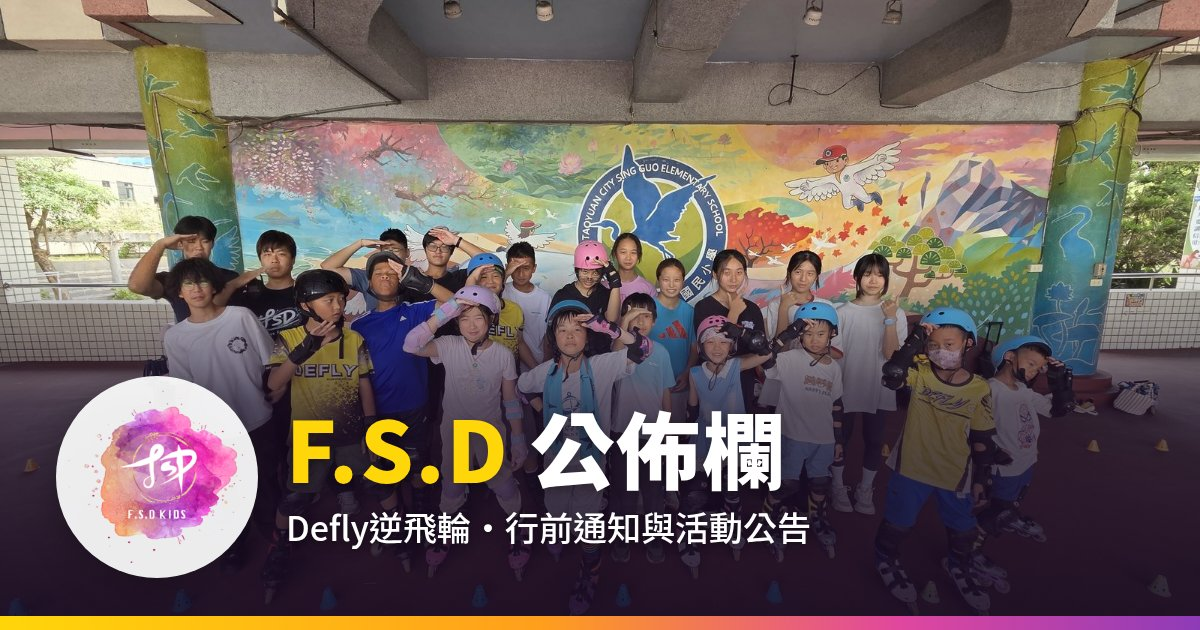
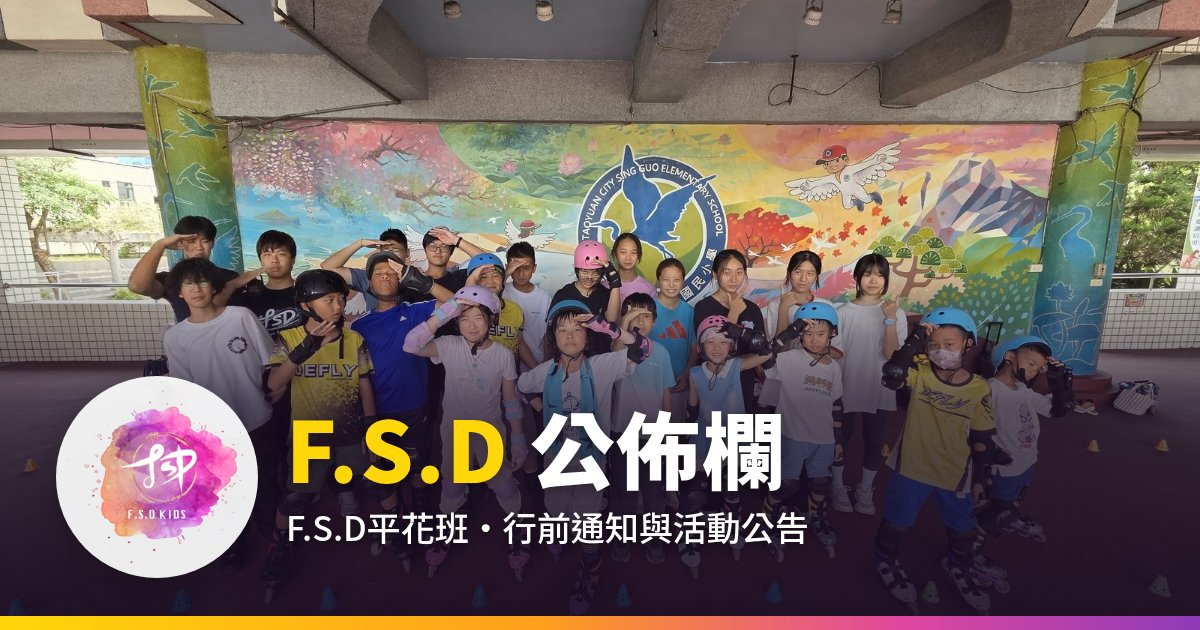
Update F.S.D 公佈欄

Changed region(s): [[0.2467, 0.8143, 0.6783, 0.8746]]

diff --git a/index.html b/index.html
@@ -4,12 +4,12 @@
 <meta charset="utf-8">
 <meta name="viewport" content="width=device-width, initial-scale=1, viewport-fit=cover">
 <title>F.S.D 公佈欄</title>
-<meta name="description" content="Defly逆飛輪 的行前通知與活動公告，最新消息都在這裡。">
+<meta name="description" content="F.S.D平花班 的行前通知與活動公告，最新消息都在這裡。">
 <meta name="theme-color" content="#FFD60A">
 <meta property="og:type" content="website">
 <meta property="og:site_name" content="F.S.D 公佈欄">
 <meta property="og:title" content="F.S.D 公佈欄">
-<meta property="og:description" content="Defly逆飛輪 的行前通知與活動公告，最新消息都在這裡。">
+<meta property="og:description" content="F.S.D平花班 的行前通知與活動公告，最新消息都在這裡。">
 <meta property="og:locale" content="zh_TW">
 <meta property="og:url" content="https://wayneking66.github.io/fsd-board/">
 <link rel="preconnect" href="https://fonts.googleapis.com">
@@ -27,12 +27,12 @@
 <main class="wrap">
   <header class="site-head">
     <img src="assets/logo-192.png" alt="F.S.D KIDS 標誌" width="96" height="96">
-    <div><span class="team">Defly逆飛輪</span><h1><b>F.S.D</b> 公佈欄</h1></div>
+    <div><span class="team">F.S.D平花班</span><h1><b>F.S.D</b> 公佈欄</h1></div>
   </header>
   <p class="tagline">行前通知・活動公告，最新消息都在這裡 🛼</p>
   <figure class="photo" style="margin-left:0;margin-right:0">
-    <img src="assets/team.jpg" alt="Defly逆飛輪 團體照" width="1600" height="901">
-    <figcaption><i></i>Defly逆飛輪</figcaption><span class="bar"></span>
+    <img src="assets/team.jpg" alt="F.S.D平花班 團體照" width="1600" height="901">
+    <figcaption><i></i>F.S.D平花班</figcaption><span class="bar"></span>
   </figure>
   <h2 class="sec-h">最新公告</h2>
   <nav class="filters" aria-label="分類篩選"><button type="button" data-f="" aria-pressed="true">全部</button><button type="button" data-f="比賽" aria-pressed="false">比賽</button></nav>
@@ -46,7 +46,7 @@
     </a>
   </div>
   <p class="empty" id="empty" hidden>這個分類目前沒有公告</p>
-  <footer>F.S.D 公佈欄・Defly逆飛輪</footer>
+  <footer>F.S.D 公佈欄・F.S.D平花班</footer>
 </main>
 <script>
 (function(){

diff --git a/notices/2026-11-01-zhongzheng-cup.html b/notices/2026-11-01-zhongzheng-cup.html
@@ -33,7 +33,7 @@
   <div class="hero">
     <span class="eyebrow">行前通知・比賽</span>
     <h1>115台北市中正盃</h1>
-    <p class="sub">Defly逆飛輪 參賽家長請詳閱 🛼</p>
+    <p class="sub">F.S.D平花班 參賽家長請詳閱 🛼</p>
     <div class="hero-meta">
       <span class="pill">📅 11/1（日）</span>
       <span class="pill">📍 台北市迎風溜冰場</span>

diff --git a/templates/notice-template.html b/templates/notice-template.html
@@ -33,7 +33,7 @@
   <div class="hero">
     <span class="eyebrow">行前通知・比賽</span>
     <h1>115台北市中正盃</h1>
-    <p class="sub">Defly逆飛輪 參賽家長請詳閱 🛼</p>
+    <p class="sub">F.S.D平花班 參賽家長請詳閱 🛼</p>
     <div class="hero-meta">
       <span class="pill">📅 11/1（日）</span>
       <span class="pill">📍 台北市迎風溜冰場</span>

diff --git a/build.py b/build.py
@@ -30,7 +30,7 @@ cards = "\n".join(f'''    <a class="item {esc(n["category"])}{" has-img" if n.ge
     </a>''' for n in items)
 buttons = "".join(f'<button type="button" data-f="{esc(c)}" aria-pressed="false">{esc(c)}</button>' for c in cats)
 og_url = f'<meta property="og:url" content="{esc(BASE)}/">' if BASE else ""
-desc = "Defly逆飛輪 的行前通知與活動公告，最新消息都在這裡。"
+desc = "F.S.D平花班 的行前通知與活動公告，最新消息都在這裡。"
 
 page = f'''<!doctype html>
 <html lang="zh-Hant-TW">
@@ -61,12 +61,12 @@ page = f'''<!doctype html>
 <main class="wrap">
   <header class="site-head">
     <img src="assets/logo-192.png" alt="F.S.D KIDS 標誌" width="96" height="96">
-    <div><span class="team">Defly逆飛輪</span><h1><b>F.S.D</b> 公佈欄</h1></div>
+    <div><span class="team">F.S.D平花班</span><h1><b>F.S.D</b> 公佈欄</h1></div>
   </header>
   <p class="tagline">行前通知・活動公告，最新消息都在這裡 🛼</p>
   <figure class="photo" style="margin-left:0;margin-right:0">
-    <img src="assets/team.jpg" alt="Defly逆飛輪 團體照" width="1600" height="901">
-    <figcaption><i></i>Defly逆飛輪</figcaption><span class="bar"></span>
+    <img src="assets/team.jpg" alt="F.S.D平花班 團體照" width="1600" height="901">
+    <figcaption><i></i>F.S.D平花班</figcaption><span class="bar"></span>
   </figure>
   <h2 class="sec-h">最新公告</h2>
   <nav class="filters" aria-label="分類篩選"><button type="button" data-f="" aria-pressed="true">全部</button>{buttons}</nav>
@@ -74,7 +74,7 @@ page = f'''<!doctype html>
 {cards}
   </div>
   <p class="empty" id="empty" hidden>這個分類目前沒有公告</p>
-  <footer>F.S.D 公佈欄・Defly逆飛輪</footer>
+  <footer>F.S.D 公佈欄・F.S.D平花班</footer>
 </main>
 <script>
 (function(){{

diff --git a/README.md b/README.md
@@ -1,6 +1,6 @@
 # F.S.D 公佈欄
 
-Defly逆飛輪 的行前通知／活動公告網站（純靜態、手機優先、無框架）。
+F.S.D平花班 的行前通知／活動公告網站（純靜態、手機優先、無框架）。
 
 ```
 index.html                 首頁（由 build.py 依 notices.json 產生，請勿手改）
